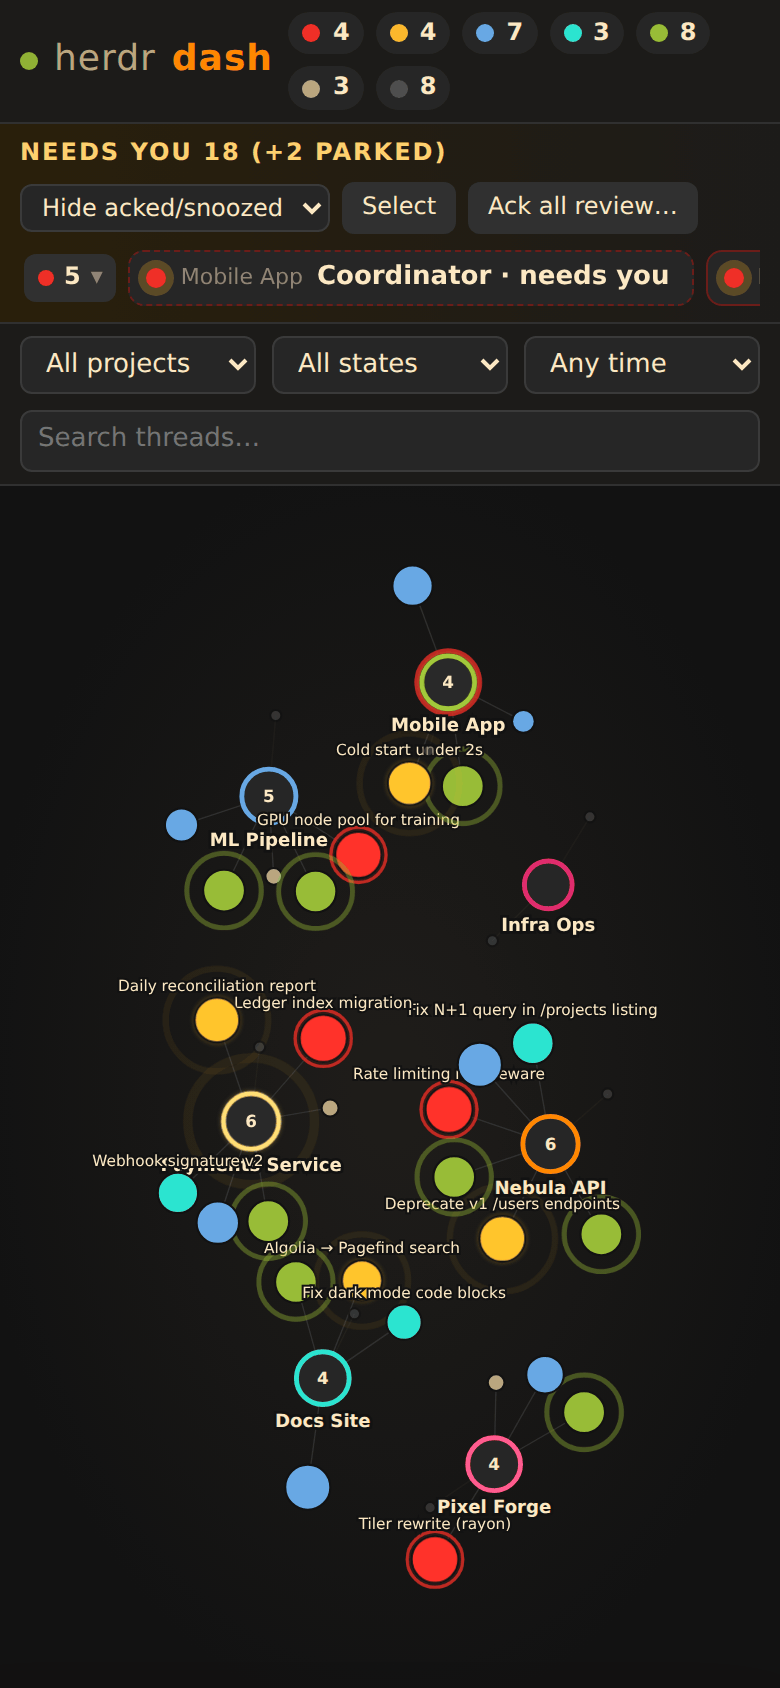
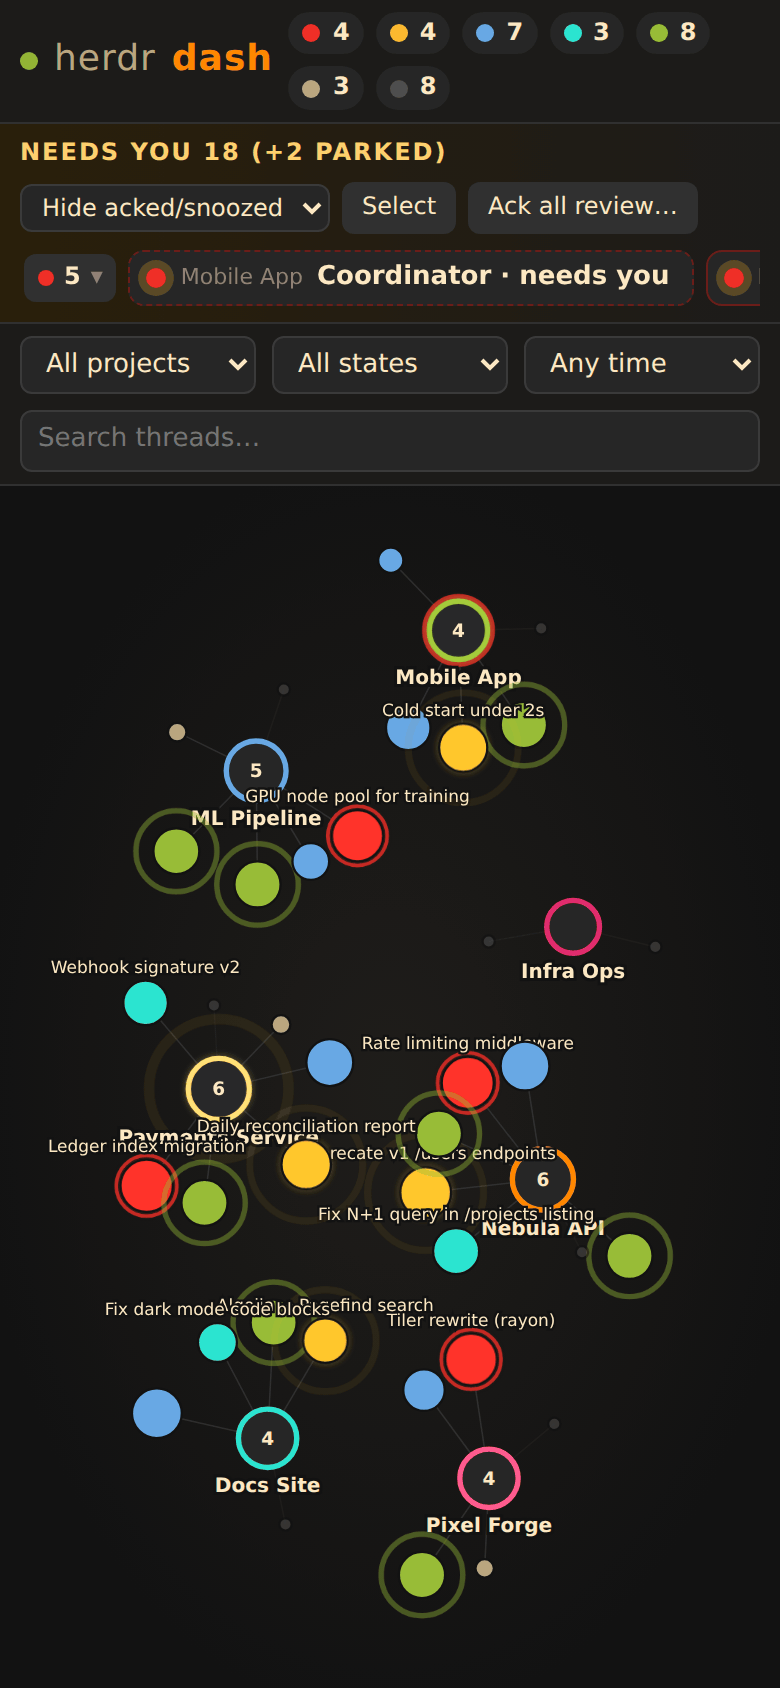
Retake screenshots with the dockable panel; mention docking in the README

Changed region(s): [[0.0615, 0.3081, 0.8615, 0.9858], [0.1538, 0.7701, 0.2462, 0.8626]]

diff --git a/README.md b/README.md
@@ -54,6 +54,8 @@ always through `herdr-projects` and its safety checks.
 - Task, latest report (sanitized markdown), PR and branch links, and
   copyable jump commands (`herdr agent focus …`) to reach the pane in your
   terminal.
+- **Dock the panel** right, left or bottom and drag it to size; the graph
+  refits around it, and the choice sticks per browser.
 
 ### Coordinator panel
 
